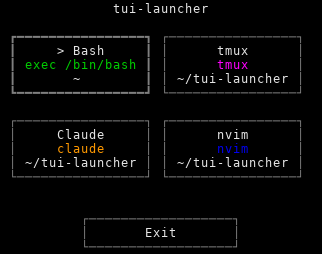
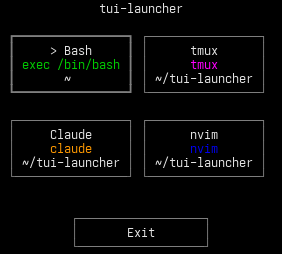
Use Ioskeley Mono for screenshots

diff --git a/README.md b/README.md
@@ -4,6 +4,19 @@ Small Brick-based terminal launcher for shell commands. It reads a TOML config,
 shows a keyboard-driven tile menu, and replaces itself with the selected
 command.
 
+## Screenshots
+
+The dark screenshot shows the grid layout, while the light screenshot keeps the
+narrow one-column layout.
+
+### Dark Terminal
+
+![Dark terminal screenshot](docs/screenshots/github-dark.png)
+
+### Light Terminal
+
+![Light terminal screenshot](docs/screenshots/github-light.png)
+
 ## Features
 
 - Arrow keys and `hjkl` move the selection
@@ -129,23 +142,6 @@ Supported entry colors:
 - `bright-magenta`
 - `bright-cyan`
 - `bright-white`
-
-## Screenshots
-
-These screenshots are generated by TuiSpec via
-[`scripts/generate-snapshots.sh`](scripts/generate-snapshots.sh). The app
-itself uses terminal-default colors; these screenshots are rendered with
-TuiSpec's dark and light terminal palettes. The dark shot uses a wider viewport
-to show the grid layout, while the light shot keeps the narrow one-column
-layout.
-
-### Dark Terminal
-
-![Dark terminal screenshot](docs/screenshots/github-dark.png)
-
-### Light Terminal
-
-![Light terminal screenshot](docs/screenshots/github-light.png)
 
 ## Development
 
